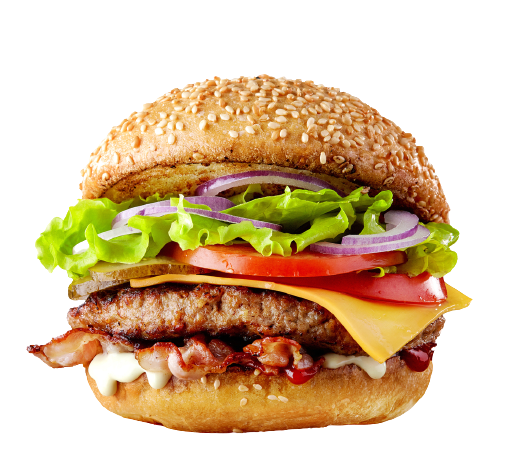
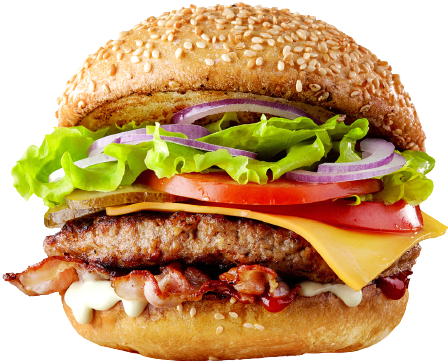
Верстка и стилизация order

diff --git a/index.html b/index.html
@@ -72,7 +72,7 @@
                         <h3 class="product-card__title">
                             Chicken Paella
                         </h3>
-                        <div class="product-card__desc">
+                        <div class="paragraph product-card__desc">
                             We just don't make and sell food.Good food warms.
                         </div>
                     </li>
@@ -83,7 +83,7 @@
                         <h3 class="product-card__title">
                             Taco Del Mar
                         </h3>
-                        <div class="product-card__desc">
+                        <div class="paragraph product-card__desc">
                             Taco Del Mar brings the best out of Mexican cuisine with fresh.
                         </div>
                     </li>
@@ -94,7 +94,7 @@
                         <h3 class="product-card__title">
                             Bon Au Pain
                         </h3>
-                        <div class="product-card__desc">
+                        <div class="paragraph product-card__desc">
                             Bon Au Pain is a pioneer in the healthy fast food scene.
                         </div>
                     </li>
@@ -105,11 +105,35 @@
                         <h3 class="product-card__title">
                             Pizza Hut.
                         </h3>
-                        <div class="product-card__desc">
+                        <div class="paragraph product-card__desc">
                             Although the Pizza Hut Menu Prices have tumbled over the years.
                         </div>
                     </li>
                 </ul>
+            </div>
+        </section>
+        <section class="order">
+            <div class="container order__container">
+                <div class="order__img-wrap">
+                    <img src="img/content/Burger-King.png" alt="" class="order__img">
+                </div>
+                <div class="order__desc">
+                    <div class="action order__action">
+                        <div class="action__title order__title">
+                            Burger King
+                        </div>
+                        <div class="paragraph order__paragraph">
+                            Together with McDonald's, Burger King has grown to become synonymous with burgers in the US.
+                        </div>
+                        <div class="price order__price">
+                            <span class="price__new">$6</span>
+                            <span class="price__old">$8</span>
+                        </div>
+                        <button class="btn">
+                            ORDER NOW
+                        </button>
+                    </div>
+                </div>
             </div>
         </section>
     </div>

diff --git a/css/style.css b/css/style.css
@@ -96,6 +96,7 @@ img {
 .btn {
     color: #FFFFFF;
     background: #f6762c;
+    border: none;
     border-radius: 5px;
     padding: 15px 36px;
     font-weight: 500;
@@ -174,9 +175,72 @@ img {
     margin-bottom: 13px;
 }
 
-.product-card__desc {
+.paragraph {
     font-weight: 400;
     font-size: 16px;
-    line-height: 19px;
+    line-height: 1.9;
     color: rgba(255, 255, 255, 0.7);
+}
+
+.product-card__desc {
+    text-align: center;
+}
+
+.order {
+    padding: 73px 0px;
+    background: #312f30
+}
+
+.order__container {
+    display: flex;
+    align-items: center;
+}
+
+.order__img-wrap {
+    width: 50%;
+    text-align: center;
+}
+
+.order__desc {
+    width: 50%;
+    padding-left: 109px;
+}
+
+.order__action {
+    max-width: 368px;
+}
+
+.order__title {
+    margin-bottom: 24px;
+}
+
+.action__title {
+    font-weight: 500;
+    font-size: 44px;
+    line-height: 52px;
+}
+
+.order__paragraph {
+    margin-bottom: 13px;
+}
+
+.order__price {
+    margin-bottom: 11px;
+}
+
+.price__new {
+    font-weight: 500;
+    font-size: 20px;
+    line-height: 23px;
+    letter-spacing: 0.1em;
+    color: #f6762c;
+}
+
+.price__old {
+    font-weight: 500;
+    font-size: 16px;
+    line-height: 19px;
+    letter-spacing: 0.1em;
+    text-decoration-line: line-through;
+    color: rgba(246, 118, 44, 0.5);
 }
